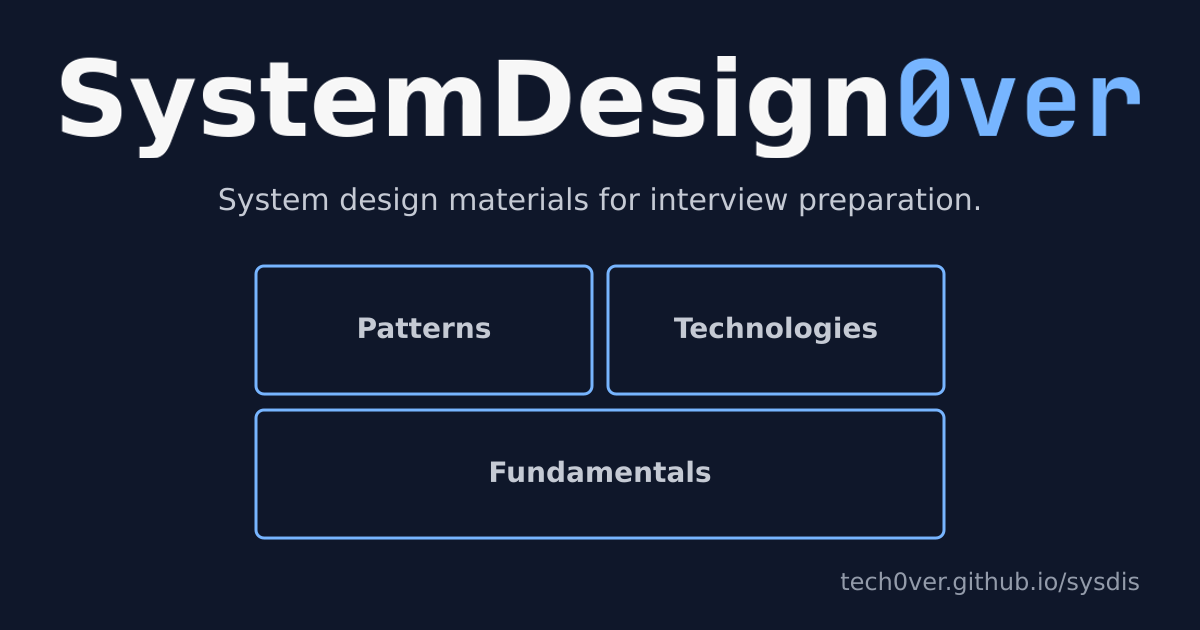
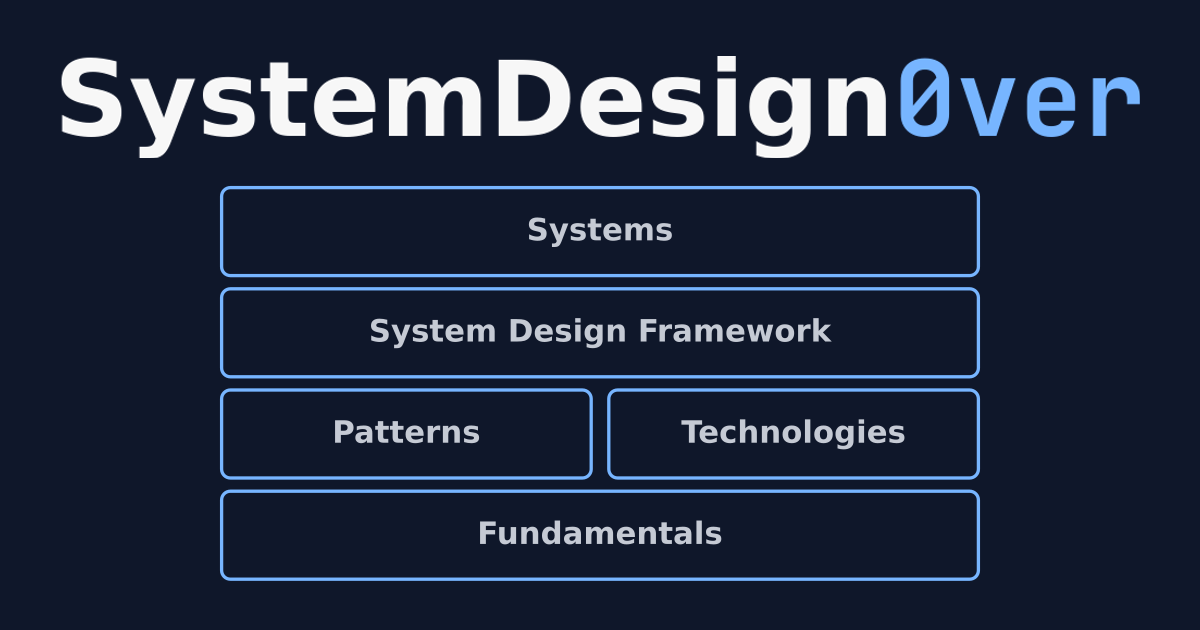
feat: show planned topics and expand the learning map (#18)
Planned topics are now visible in the sidebar with a Planned badge and
no link. Unpublished URLs show the built-in 404 page instead of
redirecting to the home page.

Add Framework and Systems alongside Fundamentals, Patterns, and
Technologies, with Framework first in the menu. Expand the home diagram
to include all five sections, using System Design Framework only in the
diagram. Update the social preview with a larger diagram and remove its
description and URL. Record the new planned topics in ARTICLES.md.

Validation:
- Updated the branch to main at bed21d0 and preserved the Sharding page.
- bun run build and git diff --check passed.
- Checked mobile and desktop navigation in both themes.
- All nine planned URLs return 404; Sharding returns 200.
- The home diagram fits a 320 by 568 viewport.

Changed region(s): [[0.185, 0.2714, 0.9558, 0.9349]]

diff --git a/ARTICLES.md b/ARTICLES.md
@@ -27,6 +27,8 @@ Then add links from the new article to the existing ones, and update `readMore` 
 - **Fundamentals** — the computer science under system design: concepts and trade-offs that every design uses, with no specific products. A fundamental idea makes sense without the product around it: a lost update is the same for tickets, bank accounts, and stock. Once a fundamental article exists, the topic grows only through patterns and technologies.
 - **Patterns** — reusable solutions built from the fundamentals: how to solve a typical problem in a design. A pattern combines several primitives for one kind of product problem and has its own steps, numbers, background jobs, and edge cases; it often matches an interview task ("design a ticket booking"). A fundamentals article names a pattern and says when to pick it; the pattern's article says how to build it (see WRITING.md, "Other articles").
 - **Technologies** — specific tools and products, and how they implement the fundamentals.
+- **Framework** — how to work through a design interview: the purpose of each step, questions to ask, expected outputs, and time to spend.
+- **Systems** — complete system designs that apply the framework, fundamentals, patterns, and technologies, with alternative designs and the requirements that favor each one.
 
 ## Fundamentals
 
@@ -80,6 +82,7 @@ The word means different things in different articles. Each article says which o
 - `technologies/cdn` — How a CDN works, anycast routing to a nearby edge, what to cache on it, invalidation.
 - `technologies/webrtc` — How WebRTC connects peers: NAT, STUN, TURN, signaling.
 - `technologies/postgresql` — PostgreSQL: B-tree storage, index types, when to pick it.
+- `technologies/kafka` — Kafka: topics and partitions, consumer groups, retention, and replay.
 - `technologies/mysql` — MySQL with InnoDB: clustered primary key, when to pick it.
 - `technologies/mongodb` — MongoDB: documents, embedding and references, schema validation, when to pick it.
 - `technologies/dynamodb` — DynamoDB: partition and sort keys, single-table design, secondary indexes.
@@ -92,3 +95,11 @@ The word means different things in different articles. Each article says which o
 - `technologies/object-storage` — Object storage (Amazon S3 and similar): keys and buckets, pre-signed URLs, multipart upload, durability and availability.
 - `technologies/clickhouse` — ClickHouse: a column store for analytics.
 - `technologies/time-series-databases` — Time-series databases (Prometheus, InfluxDB, TimescaleDB): ingestion, retention, rollups, cardinality.
+
+## Framework
+
+- `framework/functional-requirements` — Clarifying users and their main actions, choosing the core scenarios, agreeing on scope, and knowing when to move on. Includes example questions, expected outputs, and a time budget for this interview step.
+
+## Systems
+
+- `systems/url-shortener` — A complete URL shortener design, from requirements and estimates to APIs, data storage, short code generation, caching, and scaling. Compares alternatives and explains when to choose each one.
